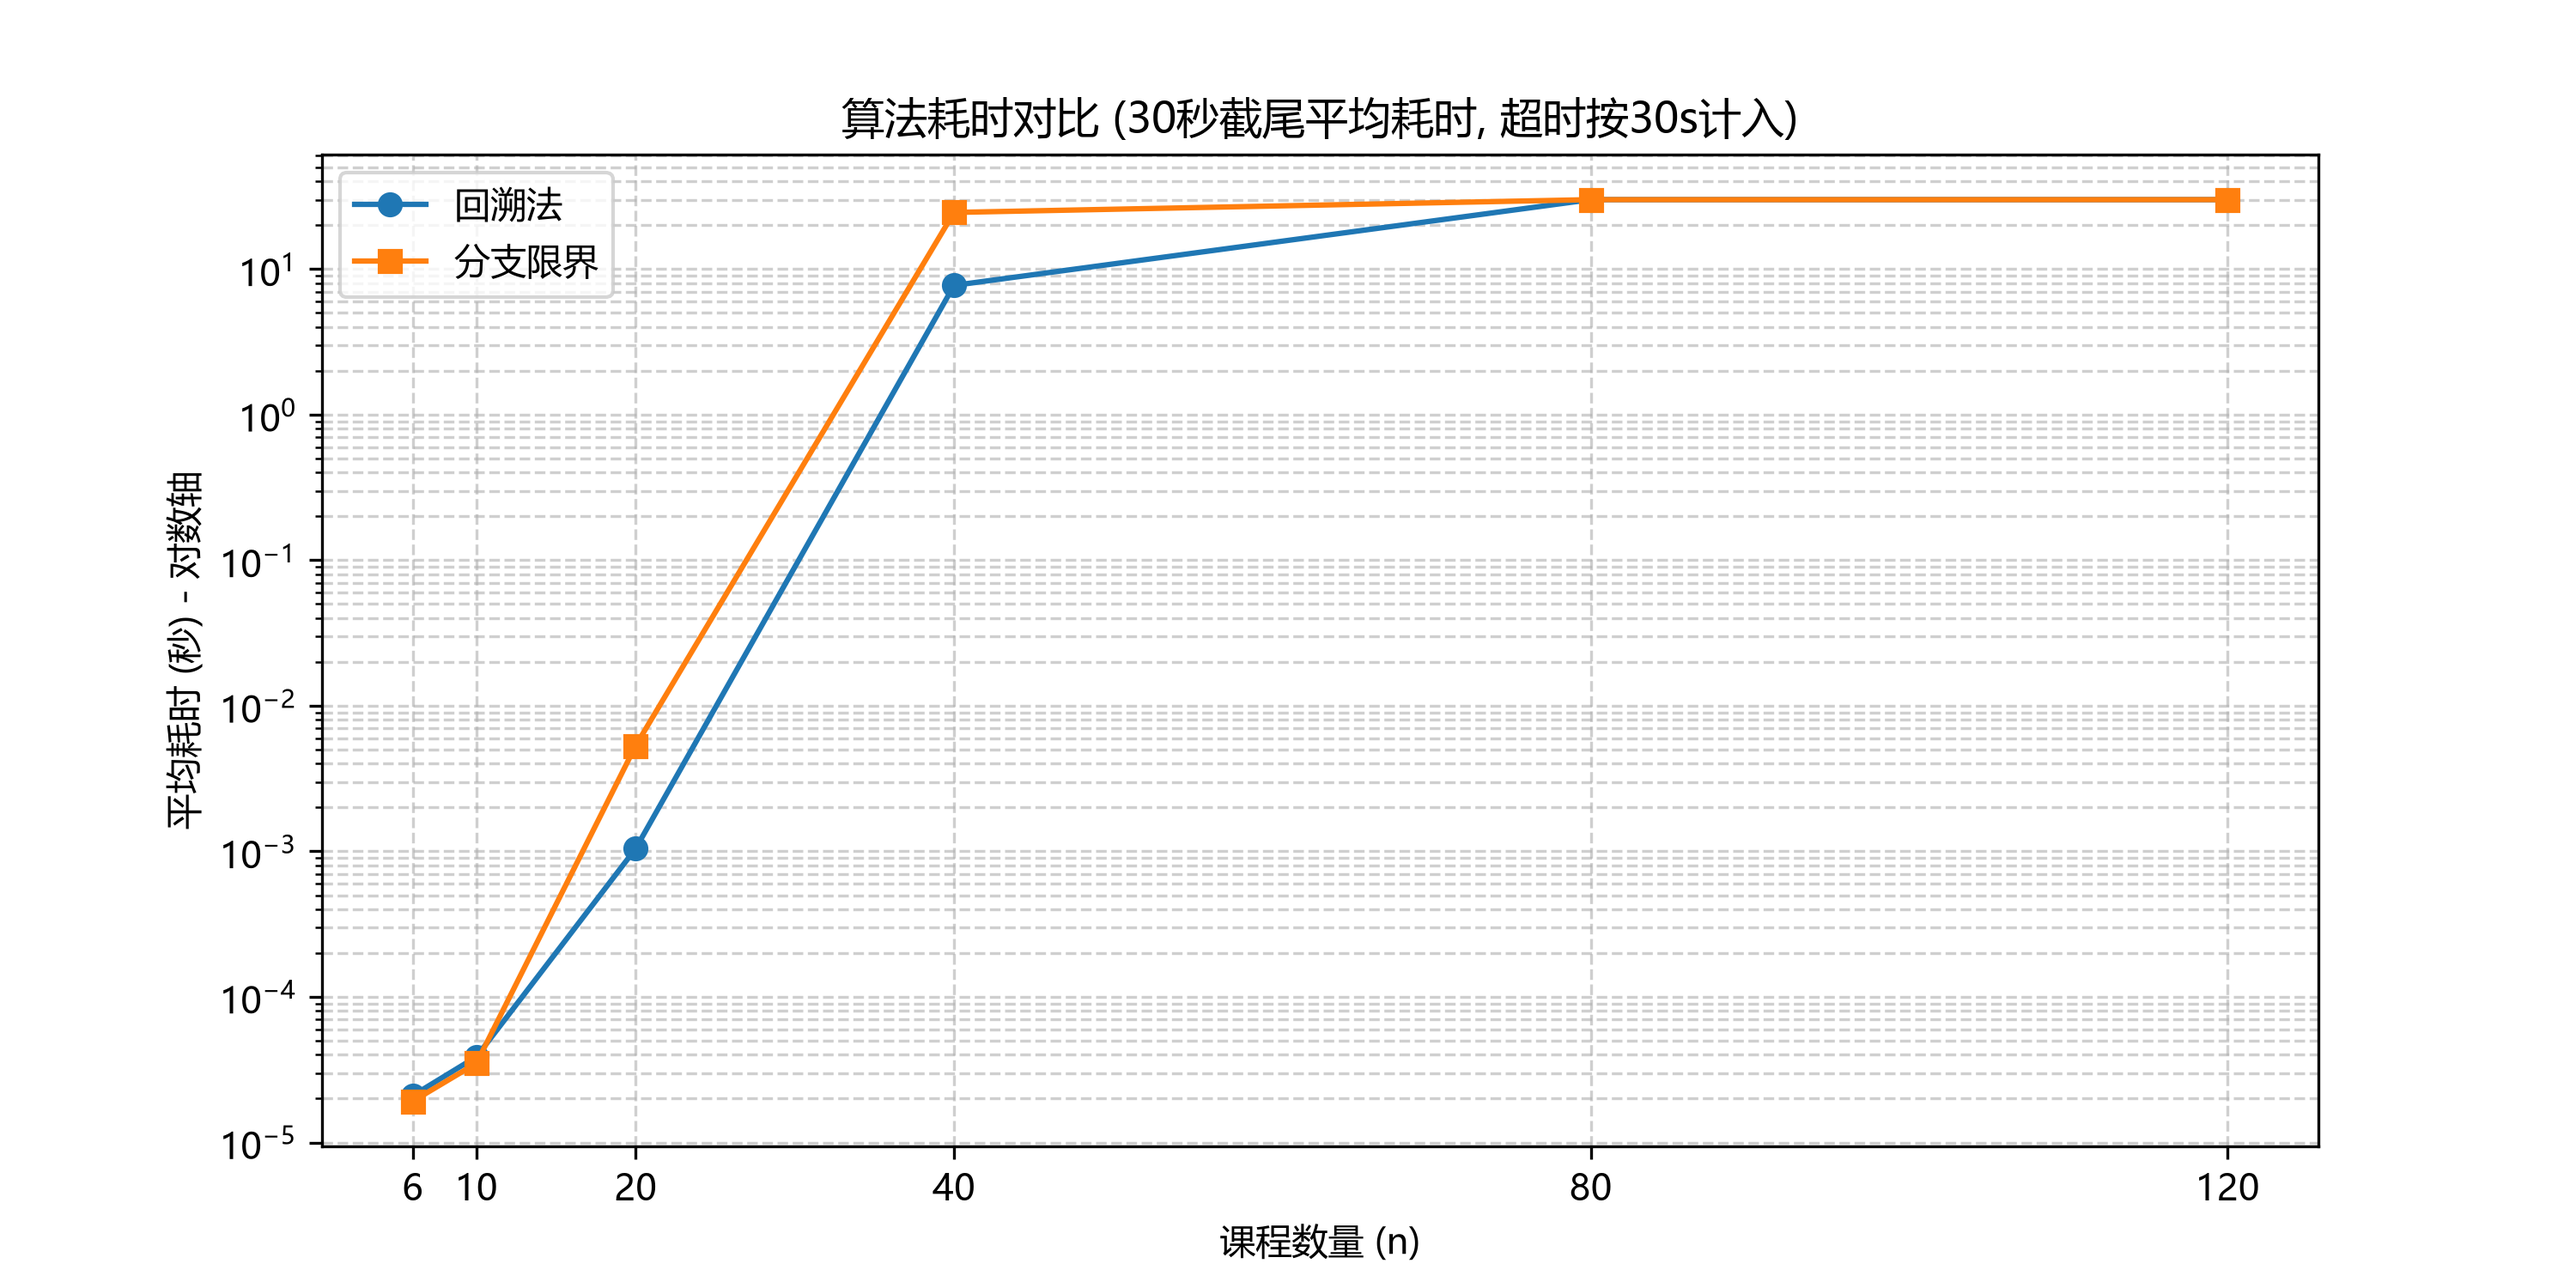
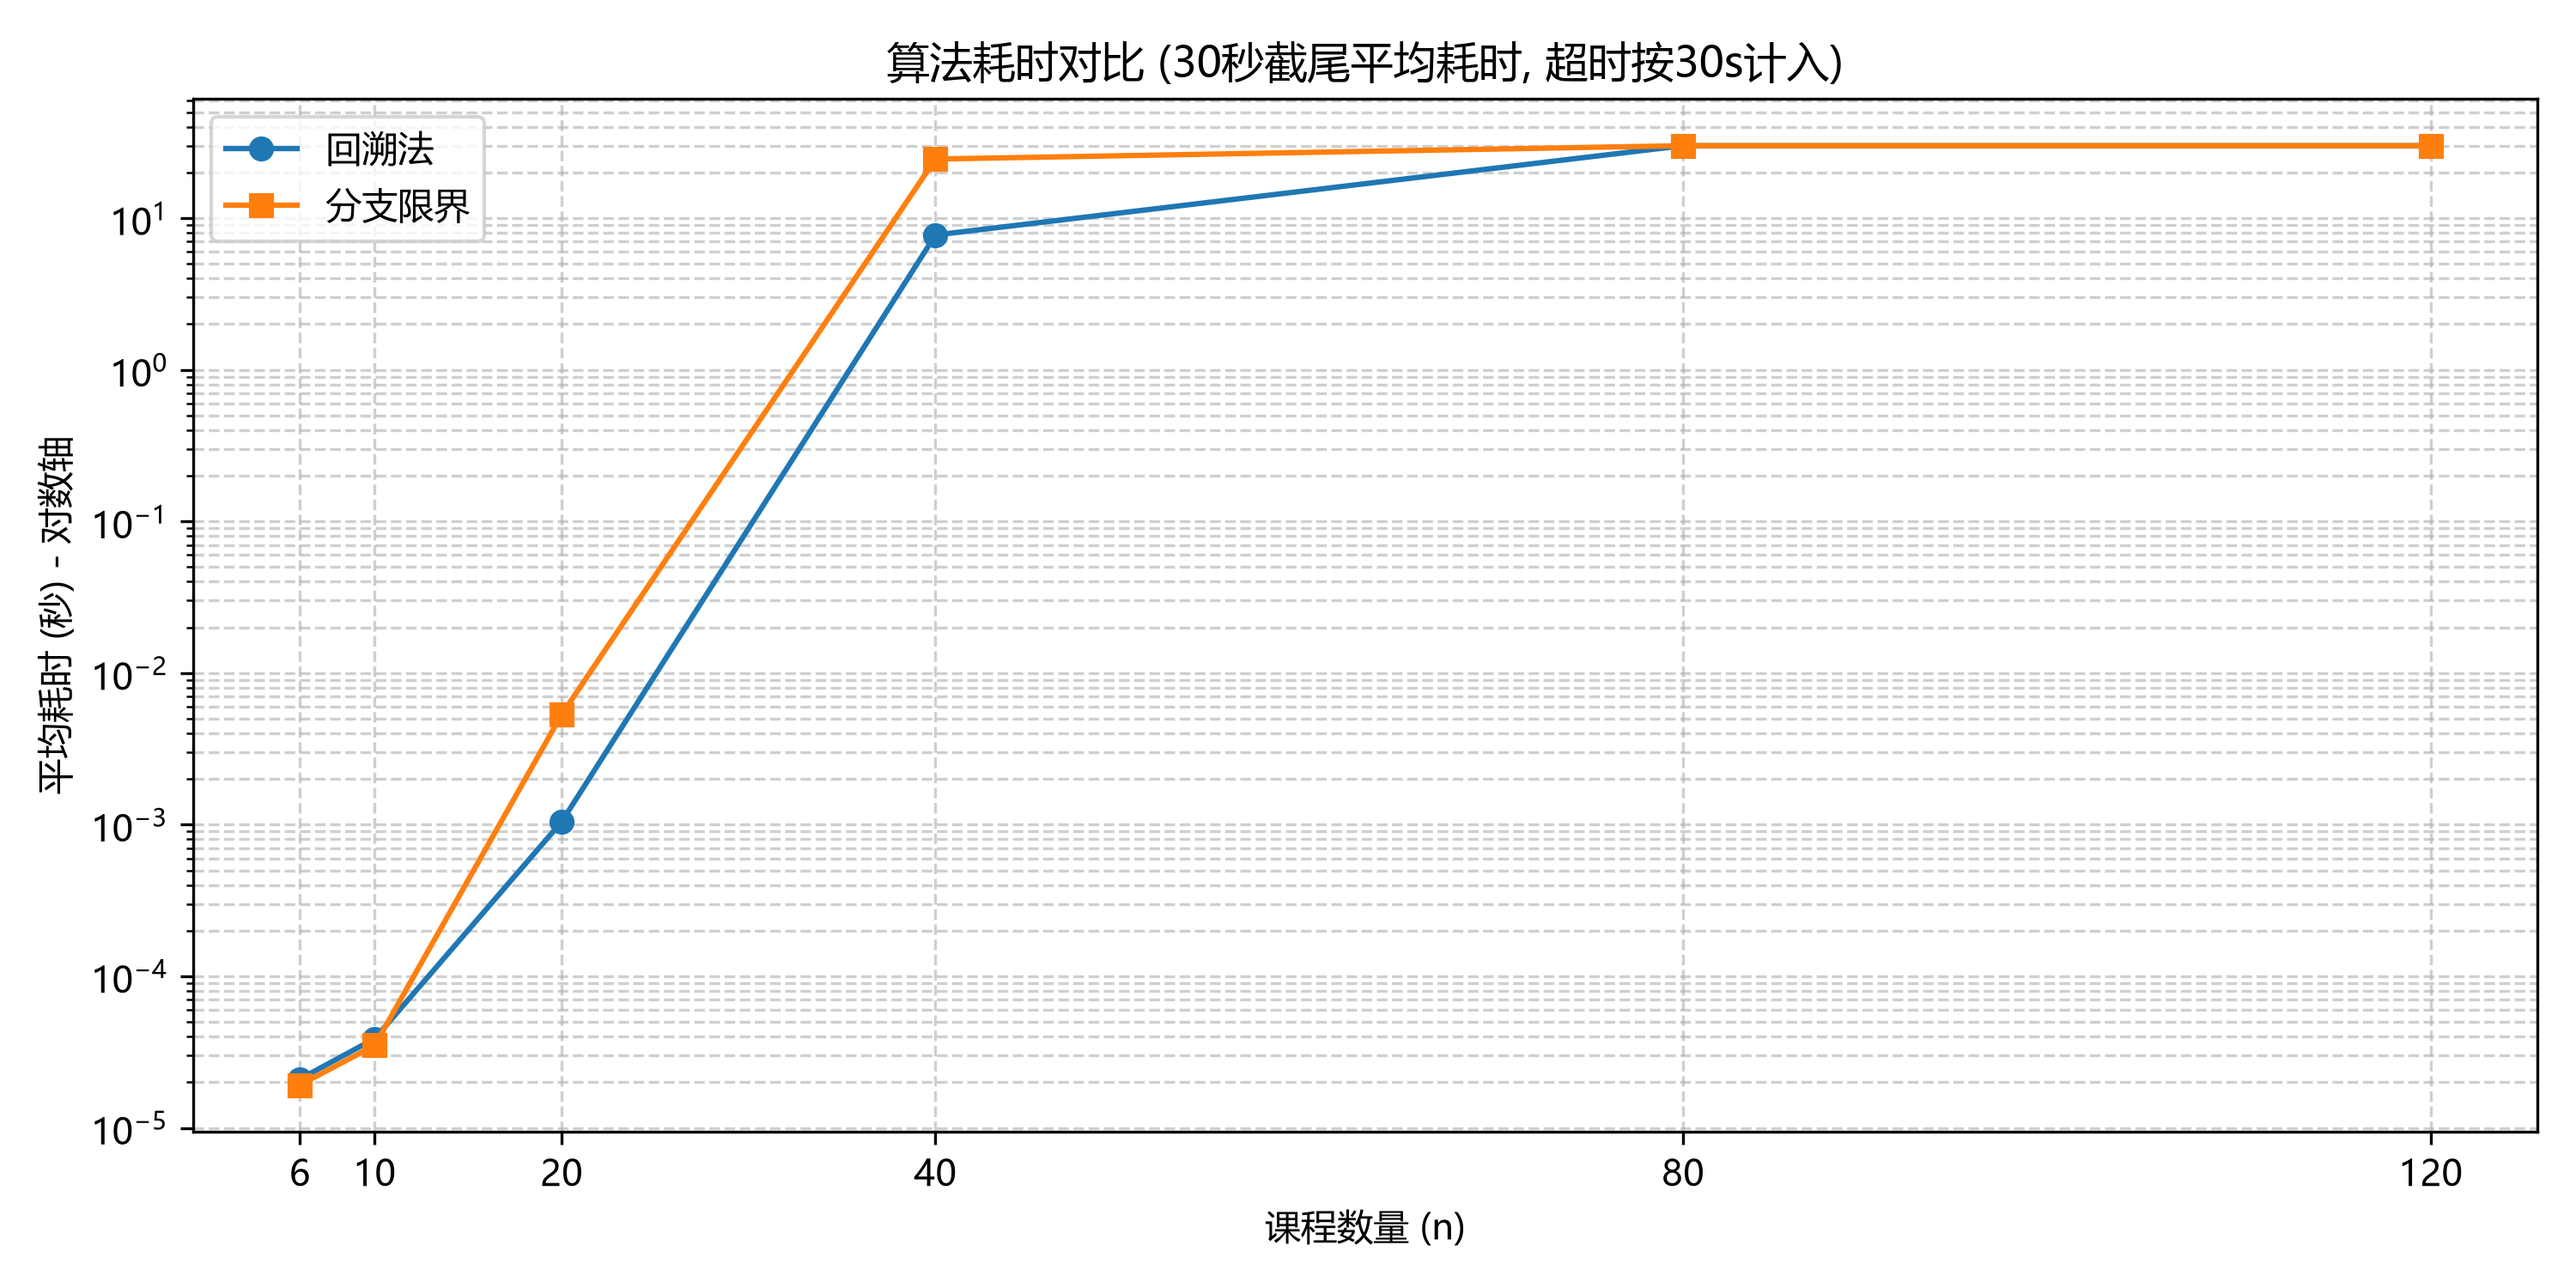
style: 优化节点图注释排版，使用图内文本框避免遮挡标题

Changed region(s): [[0.0, 0.0307, 0.992, 0.92], [0.465, 0.92, 0.558, 0.9813], [0.0, 0.46, 0.031, 0.6133]]

diff --git a/experiments/plot.py b/experiments/plot.py
@@ -6,9 +6,9 @@ plt.rcParams['font.sans-serif'] = ['Microsoft YaHei', 'SimHei', 'sans-serif']
 plt.rcParams['axes.unicode_minus'] = False
 
 data = {}
-# 记录成功次数，用于在图表上标注
 success_counts = {'backtrack': {}, 'bnb': {}}
 
+# 1. 读取数据
 with open("report/results_raw.csv", encoding="utf-8") as f:
     for row in csv.DictReader(f):
         n, method = int(row["Size"]), row["Method"]
@@ -31,7 +31,7 @@ with open("report/results_raw.csv", encoding="utf-8") as f:
 
 sizes = sorted(data.keys())
 
-# ---------- 图1：耗时对比 ----------
+# 2. 图1：耗时对比
 bt_t = [statistics.mean(data[n]['backtrack']['times']) for n in sizes]
 bnb_t = [statistics.mean(data[n]['bnb']['times']) for n in sizes]
 
@@ -40,16 +40,16 @@ plt.plot(sizes, bt_t, marker='o', label='回溯法')
 plt.plot(sizes, bnb_t, marker='s', label='分支限界')
 plt.yscale('log')
 plt.xticks(sizes)
-# 【修复】修改标题
 plt.title("算法耗时对比 (30秒截尾平均耗时, 超时按30s计入)")
 plt.xlabel("课程数量 (n)")
 plt.ylabel("平均耗时 (秒) - 对数轴")
 plt.grid(True, linestyle='--', alpha=0.6, which='both')
 plt.legend()
+plt.tight_layout()  # 防遮挡
 plt.savefig("report/time_compare.png", dpi=300)
 plt.show()
 
-# ---------- 图2：节点数对比 ----------
+# 3. 图2：节点数对比
 bt_n, bnb_n = [], []
 for n in sizes:
     bt_valid = data[n]['backtrack']['nodes']
@@ -72,17 +72,27 @@ plt.title("成功求解样本的搜索节点数对比 (对数坐标)")
 plt.xlabel("课程数量 (n)")
 plt.ylabel("平均搜索节点数 (仅限成功样本)")
 
-# 【修复】在图上添加文本标注成功率
+# 图内文本框（不再遮挡标题）
 if 40 in success_counts['backtrack']:
     bt_40 = success_counts['backtrack'][40]
     bnb_40 = success_counts['bnb'][40]
-    plt.annotate(f'n=40 回溯成功 {bt_40}/5\nn=40 分支限界成功 {bnb_40}/5',
-                 xy=(40, valid_bnb_y[-1]), xytext=(25, valid_bnb_y[-1] * 10),
-                 arrowprops=dict(facecolor='black', shrink=0.05, width=1, headwidth=6))
+    plt.text(
+        0.03, 0.97,
+        f'n=40：回溯成功 {bt_40}/5\nn=40：分支限界成功 {bnb_40}/5',
+        transform=plt.gca().transAxes,
+        ha='left', va='top',
+        bbox=dict(boxstyle='round,pad=0.35', facecolor='white', edgecolor='#94a3b8', alpha=0.9)
+    )
 
-plt.annotate('n=80, 120 均无成功样本', xy=(80, 10), xytext=(60, 100))
+plt.text(
+    0.58, 0.38,
+    'n=80、120 均无成功样本',
+    transform=plt.gca().transAxes,
+    ha='left', va='center'
+)
 
 plt.grid(True, linestyle='--', alpha=0.6, which='both')
 plt.legend()
+plt.tight_layout()  # 防遮挡
 plt.savefig("report/nodes_compare.png", dpi=300)
 plt.show()
